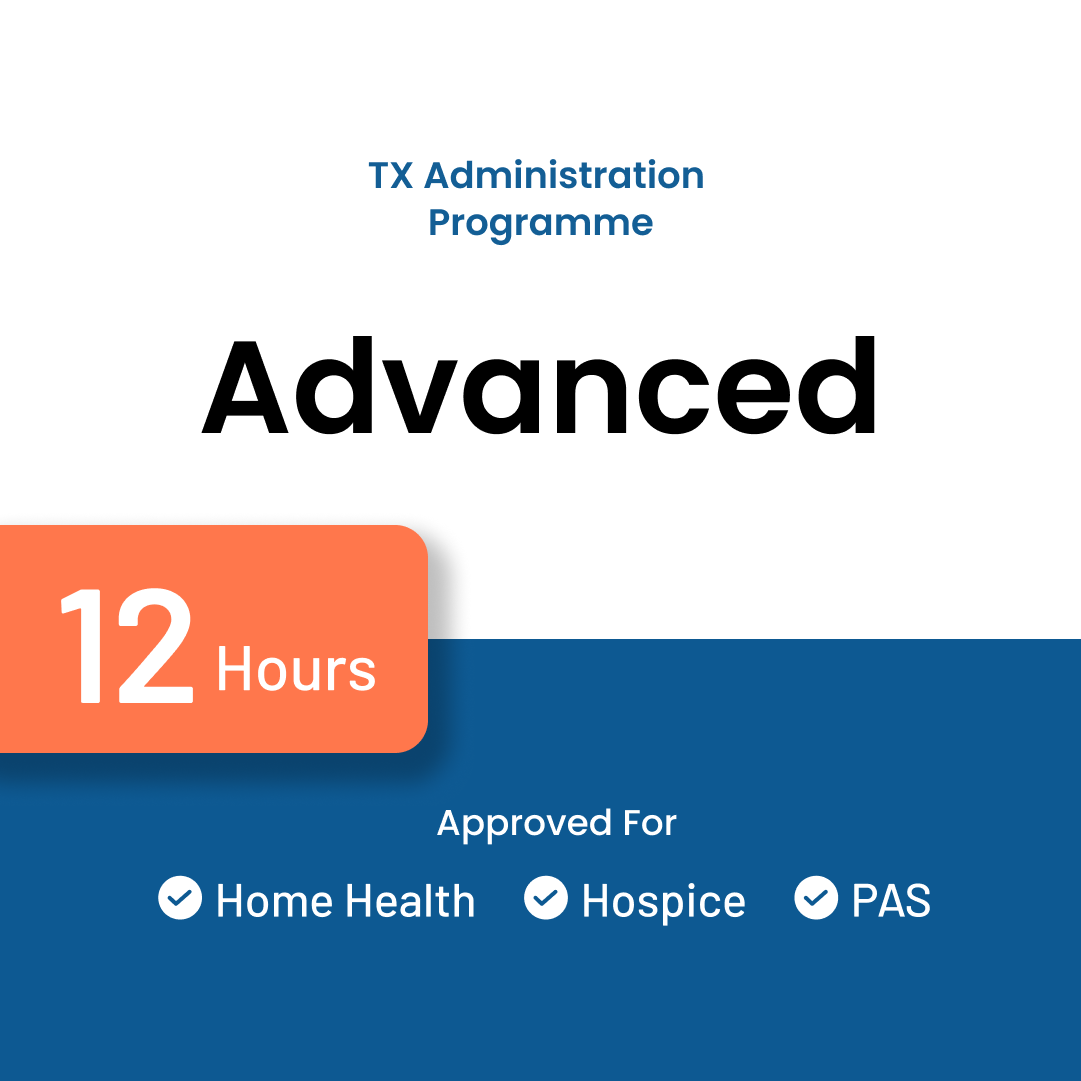
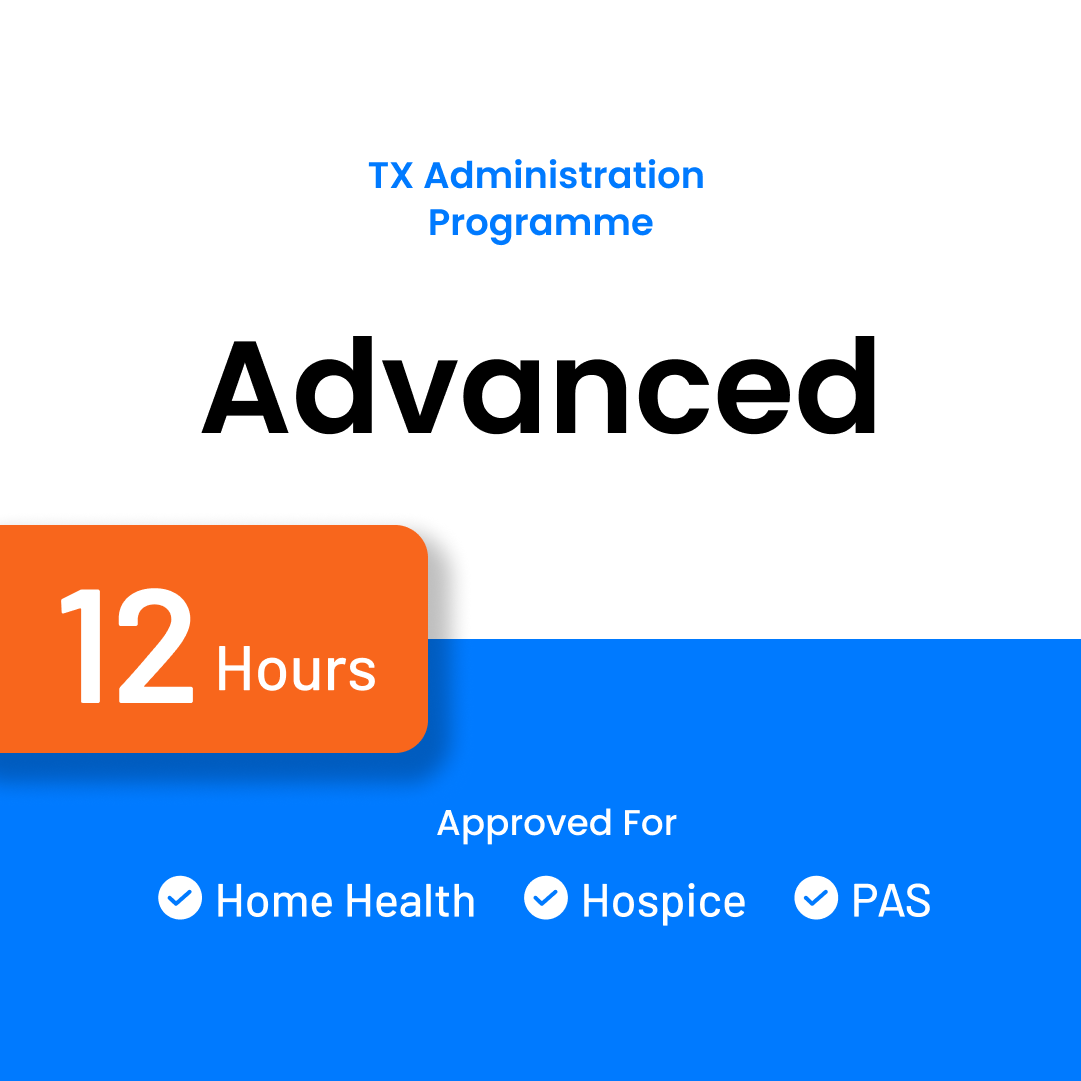
chore : images and hero gif changed

diff --git a/src/components/logo/logo.js b/src/components/logo/logo.js
@@ -28,69 +28,167 @@ function Logo({ single = false, sx }) {
     //     d="M114.742 355.332H256v66.097H24v-61.376l140.323-203.956H24V90h232v61.376L114.742 355.332z"
     //   />
     // </svg>
+    // <svg
+    //   width="100%"
+    //   height="100%"
+    //   viewBox="0 0 30 30"
+    //   fill="none"
+    //   xmlns="http://www.w3.org/2000/svg"
+    // >
+    //   <g clipPath="url(#clip0_3_1976)">
+    //     <path d="M28.6804 6.39832H7.40686L0 0H21.2673L28.6804 6.39832Z" fill="#0D5992" />
+    //     <path d="M0 13.6447H21.2673L28.6804 6.39844H7.40686L0 13.6447Z" fill="#FF774C" />
+    //     <path d="M28.6741 21.4712H7.40686L0 13.6445H21.2673L28.6741 21.4712Z" fill="#0D5992" />
+    //   </g>
+    //   <defs>
+    //     <clipPath id="clip0_3_1976">
+    //       <rect width="141" height="28" fill="white" />
+    //     </clipPath>
+    //   </defs>
+    // </svg>
     <svg
-      width="100%"
-      height="100%"
-      viewBox="0 0 30 30"
+      width="176"
+      height="35"
+      viewBox="0 0 176 35"
       fill="none"
       xmlns="http://www.w3.org/2000/svg"
     >
-      <g clipPath="url(#clip0_3_1976)">
-        <path d="M28.6804 6.39832H7.40686L0 0H21.2673L28.6804 6.39832Z" fill="#0D5992" />
-        <path d="M0 13.6447H21.2673L28.6804 6.39844H7.40686L0 13.6447Z" fill="#FF774C" />
-        <path d="M28.6741 21.4712H7.40686L0 13.6445H21.2673L28.6741 21.4712Z" fill="#0D5992" />
+      {/* <mask
+      id="mask0_516_5972"
+      style="mask-type:luminance"
+      maskUnits="userSpaceOnUse"
+      x="0"
+      y="0"
+      width="176"
+      height="35"
+    >
+      <path d="M176 0H0V35H176V0Z" fill="white" />
+    </mask> */}
+      <g mask="url(#mask0_516_5972)">
+        <path
+          d="M75.1143 35C73.9945 35.0765 72.8739 34.8666 71.8498 34.3886V30.7606C72.6605 31.1749 73.5536 31.3844 74.4567 31.372C74.9341 31.3791 75.4075 31.2811 75.8459 31.0844C76.2844 30.8877 76.678 30.5967 77.001 30.2306C77.9055 29.1912 78.6216 27.9896 79.1146 26.6842L71.2313 7.98981H75.6309L81.0561 21.4094L86.3012 7.98981H90.5912L81.9799 29.1871C80.362 33.0679 78.0735 35.0055 75.1143 35Z"
+          fill="#007AFF"
+        />
+        <path
+          d="M108.597 26.7412H92.2743V24.0264L102.287 11.6505H92.8928V8.02246H107.97V10.8515L97.9578 23.1459H108.558L108.597 26.7412Z"
+          fill="#007AFF"
+        />
+        <path
+          d="M119.345 27.2385C118.035 27.2861 116.729 27.0573 115.506 26.5654C114.283 26.0736 113.169 25.3291 112.229 24.3769C110.446 22.5179 109.444 19.9975 109.444 17.3695C109.444 14.7415 110.446 12.2211 112.229 10.3622C114.17 8.52088 116.7 7.50031 119.326 7.50031C121.951 7.50031 124.482 8.52088 126.422 10.3622C127.324 11.264 128.037 12.3501 128.516 13.5525C128.996 14.7548 129.231 16.0474 129.209 17.3491C129.23 18.6566 128.993 19.9546 128.514 21.1633C128.034 22.3719 127.323 23.4655 126.422 24.3769C125.487 25.323 124.378 26.0639 123.163 26.5554C121.947 27.047 120.649 27.2793 119.345 27.2385ZM119.345 23.6105C120.129 23.6275 120.908 23.4771 121.633 23.1686C122.359 22.8601 123.016 22.4001 123.565 21.8169C124.646 20.6094 125.247 19.0201 125.247 17.3695C125.247 15.7189 124.646 14.1295 123.565 12.9221C122.865 12.193 122.003 11.6551 121.055 11.3564C120.107 11.0577 119.104 11.0073 118.133 11.2097C117.162 11.4122 116.254 11.8612 115.49 12.5169C114.726 13.1725 114.129 14.0146 113.753 14.9683C113.376 15.922 113.232 16.9578 113.332 17.9835C113.432 19.0094 113.774 19.9935 114.327 20.8485C114.881 21.7036 115.628 22.4031 116.504 22.8849C117.379 23.3668 118.355 23.616 119.345 23.6105Z"
+          fill="#007AFF"
+        />
+        <path d="M136.373 0.00823975V26.7413H132.411V0.00823975H136.373Z" fill="#007AFF" />
+        <path
+          d="M150.252 26.7656H146.659L138.588 8.01422H142.956L148.561 21.45L154.104 8.01422H158.315L150.252 26.7656Z"
+          fill="#007AFF"
+        />
+        <path
+          d="M158.214 17.3491C158.173 16.0589 158.379 14.7729 158.819 13.5664C159.26 12.3598 159.927 11.2567 160.782 10.3214C161.642 9.38949 162.681 8.65671 163.832 8.1707C164.982 7.6847 166.219 7.45634 167.46 7.50049C169.143 7.45421 170.795 7.99034 172.157 9.02508C174.703 10.9111 175.974 13.7374 175.969 17.504V18.572H162.215C162.311 19.3124 162.554 20.0238 162.929 20.661C163.303 21.2981 163.801 21.8473 164.39 22.2734C165.751 23.2124 167.362 23.6803 168.994 23.6105C171.036 23.6173 173.04 23.036 174.787 21.931V25.4123C172.811 26.7199 170.494 27.3579 168.156 27.2385C165.556 27.2935 163.036 26.3104 161.11 24.491C160.161 23.5889 159.411 22.4834 158.911 21.2505C158.41 20.0176 158.173 18.6868 158.214 17.3491ZM162.246 15.4414H171.999C171.978 14.8248 171.84 14.2189 171.591 13.6589C171.343 13.0989 170.99 12.5963 170.551 12.1802C170.115 11.7642 169.602 11.4432 169.044 11.236C168.486 11.0288 167.894 10.9396 167.302 10.9736C166.033 10.9268 164.793 11.3843 163.835 12.2536C162.927 13.0605 162.357 14.2039 162.246 15.4414Z"
+          fill="#007AFF"
+        />
+        <path d="M35.7997 7.9979H9.24544L0 0H26.5464L35.7997 7.9979Z" fill="#007AFF" />
+        <path d="M0 17.0559H26.5464L35.7997 7.99805H9.24544L0 17.0559Z" fill="#FF5500" />
+        <path d="M35.7918 26.839H9.24544L0 17.0556H26.5464L35.7918 26.839Z" fill="#007AFF" />
+        <path
+          d="M52.8031 26.7981H48.7636V0.0161743H60.5064C63.1524 0.0161743 65.2244 0.717317 66.7222 2.1196C67.4664 2.80834 68.0562 3.65897 68.4499 4.61135C68.8436 5.56371 69.0315 6.59454 69.0004 7.63089C69.0625 9.35278 68.5343 11.0415 67.5101 12.3948C66.4861 13.7481 65.0329 14.6777 63.4108 15.0174L71.4976 26.7981H66.6126L58.8545 15.4739H52.8031V26.7981ZM52.8031 3.8806V11.797H60.2324C61.4556 11.8718 62.6662 11.5062 63.6613 10.7616C64.0745 10.4045 64.4017 9.95149 64.6165 9.43896C64.8313 8.92644 64.9278 8.36862 64.8982 7.81026C64.9222 7.26446 64.8227 6.72044 64.6079 6.22198C64.393 5.72353 64.0687 5.28456 63.6613 4.94046C62.6652 4.19869 61.4547 3.83601 60.2324 3.91321L52.8031 3.8806Z"
+          fill="#007AFF"
+        />
       </g>
-      <defs>
-        <clipPath id="clip0_3_1976">
-          <rect width="141" height="28" fill="white" />
-        </clipPath>
-      </defs>
     </svg>
   );
 
   const fullLogo = (
+    // <svg
+    //   width="180"
+    //   height="50"
+    //   viewBox="0 0 180 20"
+    //   fill="none"
+    //   xmlns="http://www.w3.org/2000/svg"
+    // >
+    //   <g clipPath="url(#clip0_3_1976)">
+    //     <path
+    //       d="M60.1768 28C59.2797 28.0612 58.3819 27.8933 57.5615 27.5109V24.6085C58.211 24.9399 58.9265 25.1075 59.65 25.0976C60.0324 25.1033 60.4117 25.0249 60.7629 24.8675C61.1142 24.7102 61.4295 24.4774 61.6883 24.1845C62.4129 23.353 62.9866 22.3917 63.3816 21.3474L57.066 6.39185H60.5907L64.937 17.1275L69.139 6.39185H72.5759L65.6771 23.3497C64.3809 26.4543 62.5475 28.0044 60.1768 28Z"
+    //       fill="#0D5992"
+    //     />
+    //     <path
+    //       d="M87.0008 21.393H73.9243V19.2211L81.9458 9.32038H74.4198V6.41797H86.499V8.68119L78.4776 18.5167H86.9694L87.0008 21.393Z"
+    //       fill="#0D5992"
+    //     />
+    //     <path
+    //       d="M95.6118 21.7908C94.5622 21.8289 93.516 21.6458 92.5363 21.2523C91.5565 20.8589 90.6635 20.2633 89.9109 19.5015C88.482 18.0143 87.6793 15.998 87.6793 13.8956C87.6793 11.7932 88.482 9.77691 89.9109 8.28973C91.4656 6.8167 93.493 6.00024 95.5962 6.00024C97.6993 6.00024 99.7268 6.8167 101.281 8.28973C102.004 9.01119 102.575 9.8801 102.959 10.842C103.343 11.8038 103.532 12.8379 103.514 13.8793C103.531 14.9253 103.341 15.9637 102.957 16.9306C102.573 17.8975 102.003 18.7724 101.281 19.5015C100.532 20.2584 99.6439 20.8511 98.67 21.2443C97.6961 21.6376 96.6561 21.8234 95.6118 21.7908ZM95.6118 18.8884C96.2397 18.902 96.8635 18.7817 97.4449 18.5349C98.0263 18.2881 98.5529 17.9201 98.9923 17.4535C99.8581 16.4875 100.34 15.2161 100.34 13.8956C100.34 12.5751 99.8581 11.3036 98.9923 10.3377C98.4315 9.75437 97.7408 9.32409 96.9816 9.0851C96.2224 8.84612 95.4182 8.80581 94.6404 8.96777C93.8626 9.12973 93.1354 9.48894 92.5232 10.0135C91.911 10.538 91.4329 11.2117 91.1313 11.9746C90.8296 12.7376 90.7139 13.5662 90.7942 14.3868C90.8746 15.2075 91.1486 15.9948 91.5919 16.6788C92.0352 17.3629 92.6341 17.9225 93.3354 18.3079C94.0367 18.6934 94.8187 18.8928 95.6118 18.8884Z"
+    //       fill="#0D5992"
+    //     />
+    //     <path d="M109.253 0.0065918V21.393H106.079V0.0065918H109.253Z" fill="#0D5992" />
+    //     <path
+    //       d="M120.372 21.4125H117.494L111.028 6.41138H114.527L119.018 17.16L123.458 6.41138H126.832L120.372 21.4125Z"
+    //       fill="#0D5992"
+    //     />
+    //     <path
+    //       d="M126.751 13.8793C126.718 12.8471 126.883 11.8183 127.236 10.8531C127.589 9.88782 128.123 9.00535 128.808 8.25709C129.497 7.51159 130.33 6.92537 131.252 6.53656C132.173 6.14776 133.164 5.96507 134.158 6.00039C135.507 5.96337 136.83 6.39227 137.921 7.22006C139.961 8.72887 140.979 10.9899 140.975 14.0032V14.8576H129.956C130.033 15.4499 130.228 16.019 130.528 16.5288C130.828 17.0385 131.227 17.4778 131.699 17.8187C132.789 18.5699 134.08 18.9442 135.387 18.8884C137.023 18.8938 138.629 18.4288 140.028 17.5448V20.3298C138.445 21.3759 136.589 21.8863 134.716 21.7908C132.633 21.8348 130.614 21.0483 129.071 19.5928C128.311 18.8711 127.71 17.9867 127.309 17.0004C126.908 16.0141 126.718 14.9494 126.751 13.8793ZM129.981 12.3531H137.795C137.778 11.8598 137.667 11.3751 137.468 10.9271C137.269 10.4791 136.986 10.077 136.635 9.74414C136.285 9.41132 135.874 9.15453 135.427 8.98879C134.98 8.82304 134.506 8.75168 134.032 8.77887C133.015 8.74141 132.022 9.10744 131.254 9.80286C130.527 10.4484 130.07 11.3631 129.981 12.3531Z"
+    //       fill="#0D5992"
+    //     />
+    //     <path d="M28.6804 6.39832H7.40686L0 0H21.2673L28.6804 6.39832Z" fill="#0D5992" />
+    //     <path d="M0 13.6447H21.2673L28.6804 6.39844H7.40686L0 13.6447Z" fill="#FF774C" />
+    //     <path d="M28.6741 21.4712H7.40686L0 13.6445H21.2673L28.6741 21.4712Z" fill="#0D5992" />
+    //     <path
+    //       d="M42.3025 21.4385H39.0663V0.0129395H48.4739C50.5937 0.0129395 52.2536 0.573854 53.4536 1.69568C54.0498 2.24667 54.5223 2.92718 54.8377 3.68908C55.1531 4.45097 55.3036 5.27563 55.2787 6.10471C55.3285 7.48222 54.9053 8.8332 54.0848 9.91587C53.2644 10.9985 52.1002 11.7422 50.8007 12.0139L57.2793 21.4385H53.3658L47.1505 12.3791H42.3025V21.4385ZM42.3025 3.10448V9.43758H48.2544C49.2343 9.49746 50.2042 9.20499 51.0014 8.60925C51.3324 8.32357 51.5945 7.96119 51.7666 7.55117C51.9387 7.14115 52.016 6.6949 51.9923 6.24821C52.0115 5.81157 51.9318 5.37635 51.7597 4.97758C51.5876 4.57882 51.3278 4.22765 51.0014 3.95237C50.2034 3.35895 49.2336 3.06881 48.2544 3.13057L42.3025 3.10448Z"
+    //       fill="#0D5992"
+    //     />
+    //   </g>
+    //   <defs>
+    //     <clipPath id="clip0_3_1976">
+    //       <rect width="141" height="28" fill="white" />
+    //     </clipPath>
+    //   </defs>
+    // </svg>
     <svg
-      width="180"
-      height="50"
-      viewBox="0 0 180 20"
+      width="176"
+      height="35"
+      viewBox="0 0 176 35"
       fill="none"
       xmlns="http://www.w3.org/2000/svg"
     >
-      <g clipPath="url(#clip0_3_1976)">
+      {/* <mask
+      id="mask0_516_5972"
+      style="mask-type:luminance"
+      maskUnits="userSpaceOnUse"
+      x="0"
+      y="0"
+      width="176"
+      height="35"
+    >
+      <path d="M176 0H0V35H176V0Z" fill="white" />
+    </mask> */}
+      <g mask="url(#mask0_516_5972)">
         <path
-          d="M60.1768 28C59.2797 28.0612 58.3819 27.8933 57.5615 27.5109V24.6085C58.211 24.9399 58.9265 25.1075 59.65 25.0976C60.0324 25.1033 60.4117 25.0249 60.7629 24.8675C61.1142 24.7102 61.4295 24.4774 61.6883 24.1845C62.4129 23.353 62.9866 22.3917 63.3816 21.3474L57.066 6.39185H60.5907L64.937 17.1275L69.139 6.39185H72.5759L65.6771 23.3497C64.3809 26.4543 62.5475 28.0044 60.1768 28Z"
-          fill="#0D5992"
+          d="M75.1143 35C73.9945 35.0765 72.8739 34.8666 71.8498 34.3886V30.7606C72.6605 31.1749 73.5536 31.3844 74.4567 31.372C74.9341 31.3791 75.4075 31.2811 75.8459 31.0844C76.2844 30.8877 76.678 30.5967 77.001 30.2306C77.9055 29.1912 78.6216 27.9896 79.1146 26.6842L71.2313 7.98981H75.6309L81.0561 21.4094L86.3012 7.98981H90.5912L81.9799 29.1871C80.362 33.0679 78.0735 35.0055 75.1143 35Z"
+          fill="#007AFF"
         />
         <path
-          d="M87.0008 21.393H73.9243V19.2211L81.9458 9.32038H74.4198V6.41797H86.499V8.68119L78.4776 18.5167H86.9694L87.0008 21.393Z"
-          fill="#0D5992"
+          d="M108.597 26.7412H92.2743V24.0264L102.287 11.6505H92.8928V8.02246H107.97V10.8515L97.9578 23.1459H108.558L108.597 26.7412Z"
+          fill="#007AFF"
         />
         <path
-          d="M95.6118 21.7908C94.5622 21.8289 93.516 21.6458 92.5363 21.2523C91.5565 20.8589 90.6635 20.2633 89.9109 19.5015C88.482 18.0143 87.6793 15.998 87.6793 13.8956C87.6793 11.7932 88.482 9.77691 89.9109 8.28973C91.4656 6.8167 93.493 6.00024 95.5962 6.00024C97.6993 6.00024 99.7268 6.8167 101.281 8.28973C102.004 9.01119 102.575 9.8801 102.959 10.842C103.343 11.8038 103.532 12.8379 103.514 13.8793C103.531 14.9253 103.341 15.9637 102.957 16.9306C102.573 17.8975 102.003 18.7724 101.281 19.5015C100.532 20.2584 99.6439 20.8511 98.67 21.2443C97.6961 21.6376 96.6561 21.8234 95.6118 21.7908ZM95.6118 18.8884C96.2397 18.902 96.8635 18.7817 97.4449 18.5349C98.0263 18.2881 98.5529 17.9201 98.9923 17.4535C99.8581 16.4875 100.34 15.2161 100.34 13.8956C100.34 12.5751 99.8581 11.3036 98.9923 10.3377C98.4315 9.75437 97.7408 9.32409 96.9816 9.0851C96.2224 8.84612 95.4182 8.80581 94.6404 8.96777C93.8626 9.12973 93.1354 9.48894 92.5232 10.0135C91.911 10.538 91.4329 11.2117 91.1313 11.9746C90.8296 12.7376 90.7139 13.5662 90.7942 14.3868C90.8746 15.2075 91.1486 15.9948 91.5919 16.6788C92.0352 17.3629 92.6341 17.9225 93.3354 18.3079C94.0367 18.6934 94.8187 18.8928 95.6118 18.8884Z"
-          fill="#0D5992"
+          d="M119.345 27.2385C118.035 27.2861 116.729 27.0573 115.506 26.5654C114.283 26.0736 113.169 25.3291 112.229 24.3769C110.446 22.5179 109.444 19.9975 109.444 17.3695C109.444 14.7415 110.446 12.2211 112.229 10.3622C114.17 8.52088 116.7 7.50031 119.326 7.50031C121.951 7.50031 124.482 8.52088 126.422 10.3622C127.324 11.264 128.037 12.3501 128.516 13.5525C128.996 14.7548 129.231 16.0474 129.209 17.3491C129.23 18.6566 128.993 19.9546 128.514 21.1633C128.034 22.3719 127.323 23.4655 126.422 24.3769C125.487 25.323 124.378 26.0639 123.163 26.5554C121.947 27.047 120.649 27.2793 119.345 27.2385ZM119.345 23.6105C120.129 23.6275 120.908 23.4771 121.633 23.1686C122.359 22.8601 123.016 22.4001 123.565 21.8169C124.646 20.6094 125.247 19.0201 125.247 17.3695C125.247 15.7189 124.646 14.1295 123.565 12.9221C122.865 12.193 122.003 11.6551 121.055 11.3564C120.107 11.0577 119.104 11.0073 118.133 11.2097C117.162 11.4122 116.254 11.8612 115.49 12.5169C114.726 13.1725 114.129 14.0146 113.753 14.9683C113.376 15.922 113.232 16.9578 113.332 17.9835C113.432 19.0094 113.774 19.9935 114.327 20.8485C114.881 21.7036 115.628 22.4031 116.504 22.8849C117.379 23.3668 118.355 23.616 119.345 23.6105Z"
+          fill="#007AFF"
         />
-        <path d="M109.253 0.0065918V21.393H106.079V0.0065918H109.253Z" fill="#0D5992" />
+        <path d="M136.373 0.00823975V26.7413H132.411V0.00823975H136.373Z" fill="#007AFF" />
         <path
-          d="M120.372 21.4125H117.494L111.028 6.41138H114.527L119.018 17.16L123.458 6.41138H126.832L120.372 21.4125Z"
-          fill="#0D5992"
+          d="M150.252 26.7656H146.659L138.588 8.01422H142.956L148.561 21.45L154.104 8.01422H158.315L150.252 26.7656Z"
+          fill="#007AFF"
         />
         <path
-          d="M126.751 13.8793C126.718 12.8471 126.883 11.8183 127.236 10.8531C127.589 9.88782 128.123 9.00535 128.808 8.25709C129.497 7.51159 130.33 6.92537 131.252 6.53656C132.173 6.14776 133.164 5.96507 134.158 6.00039C135.507 5.96337 136.83 6.39227 137.921 7.22006C139.961 8.72887 140.979 10.9899 140.975 14.0032V14.8576H129.956C130.033 15.4499 130.228 16.019 130.528 16.5288C130.828 17.0385 131.227 17.4778 131.699 17.8187C132.789 18.5699 134.08 18.9442 135.387 18.8884C137.023 18.8938 138.629 18.4288 140.028 17.5448V20.3298C138.445 21.3759 136.589 21.8863 134.716 21.7908C132.633 21.8348 130.614 21.0483 129.071 19.5928C128.311 18.8711 127.71 17.9867 127.309 17.0004C126.908 16.0141 126.718 14.9494 126.751 13.8793ZM129.981 12.3531H137.795C137.778 11.8598 137.667 11.3751 137.468 10.9271C137.269 10.4791 136.986 10.077 136.635 9.74414C136.285 9.41132 135.874 9.15453 135.427 8.98879C134.98 8.82304 134.506 8.75168 134.032 8.77887C133.015 8.74141 132.022 9.10744 131.254 9.80286C130.527 10.4484 130.07 11.3631 129.981 12.3531Z"
-          fill="#0D5992"
+          d="M158.214 17.3491C158.173 16.0589 158.379 14.7729 158.819 13.5664C159.26 12.3598 159.927 11.2567 160.782 10.3214C161.642 9.38949 162.681 8.65671 163.832 8.1707C164.982 7.6847 166.219 7.45634 167.46 7.50049C169.143 7.45421 170.795 7.99034 172.157 9.02508C174.703 10.9111 175.974 13.7374 175.969 17.504V18.572H162.215C162.311 19.3124 162.554 20.0238 162.929 20.661C163.303 21.2981 163.801 21.8473 164.39 22.2734C165.751 23.2124 167.362 23.6803 168.994 23.6105C171.036 23.6173 173.04 23.036 174.787 21.931V25.4123C172.811 26.7199 170.494 27.3579 168.156 27.2385C165.556 27.2935 163.036 26.3104 161.11 24.491C160.161 23.5889 159.411 22.4834 158.911 21.2505C158.41 20.0176 158.173 18.6868 158.214 17.3491ZM162.246 15.4414H171.999C171.978 14.8248 171.84 14.2189 171.591 13.6589C171.343 13.0989 170.99 12.5963 170.551 12.1802C170.115 11.7642 169.602 11.4432 169.044 11.236C168.486 11.0288 167.894 10.9396 167.302 10.9736C166.033 10.9268 164.793 11.3843 163.835 12.2536C162.927 13.0605 162.357 14.2039 162.246 15.4414Z"
+          fill="#007AFF"
         />
-        <path d="M28.6804 6.39832H7.40686L0 0H21.2673L28.6804 6.39832Z" fill="#0D5992" />
-        <path d="M0 13.6447H21.2673L28.6804 6.39844H7.40686L0 13.6447Z" fill="#FF774C" />
-        <path d="M28.6741 21.4712H7.40686L0 13.6445H21.2673L28.6741 21.4712Z" fill="#0D5992" />
+        <path d="M35.7997 7.9979H9.24544L0 0H26.5464L35.7997 7.9979Z" fill="#007AFF" />
+        <path d="M0 17.0559H26.5464L35.7997 7.99805H9.24544L0 17.0559Z" fill="#FF5500" />
+        <path d="M35.7918 26.839H9.24544L0 17.0556H26.5464L35.7918 26.839Z" fill="#007AFF" />
         <path
-          d="M42.3025 21.4385H39.0663V0.0129395H48.4739C50.5937 0.0129395 52.2536 0.573854 53.4536 1.69568C54.0498 2.24667 54.5223 2.92718 54.8377 3.68908C55.1531 4.45097 55.3036 5.27563 55.2787 6.10471C55.3285 7.48222 54.9053 8.8332 54.0848 9.91587C53.2644 10.9985 52.1002 11.7422 50.8007 12.0139L57.2793 21.4385H53.3658L47.1505 12.3791H42.3025V21.4385ZM42.3025 3.10448V9.43758H48.2544C49.2343 9.49746 50.2042 9.20499 51.0014 8.60925C51.3324 8.32357 51.5945 7.96119 51.7666 7.55117C51.9387 7.14115 52.016 6.6949 51.9923 6.24821C52.0115 5.81157 51.9318 5.37635 51.7597 4.97758C51.5876 4.57882 51.3278 4.22765 51.0014 3.95237C50.2034 3.35895 49.2336 3.06881 48.2544 3.13057L42.3025 3.10448Z"
-          fill="#0D5992"
+          d="M52.8031 26.7981H48.7636V0.0161743H60.5064C63.1524 0.0161743 65.2244 0.717317 66.7222 2.1196C67.4664 2.80834 68.0562 3.65897 68.4499 4.61135C68.8436 5.56371 69.0315 6.59454 69.0004 7.63089C69.0625 9.35278 68.5343 11.0415 67.5101 12.3948C66.4861 13.7481 65.0329 14.6777 63.4108 15.0174L71.4976 26.7981H66.6126L58.8545 15.4739H52.8031V26.7981ZM52.8031 3.8806V11.797H60.2324C61.4556 11.8718 62.6662 11.5062 63.6613 10.7616C64.0745 10.4045 64.4017 9.95149 64.6165 9.43896C64.8313 8.92644 64.9278 8.36862 64.8982 7.81026C64.9222 7.26446 64.8227 6.72044 64.6079 6.22198C64.393 5.72353 64.0687 5.28456 63.6613 4.94046C62.6652 4.19869 61.4547 3.83601 60.2324 3.91321L52.8031 3.8806Z"
+          fill="#007AFF"
         />
       </g>
-      <defs>
-        <clipPath id="clip0_3_1976">
-          <rect width="141" height="28" fill="white" />
-        </clipPath>
-      </defs>
     </svg>
   );
 

diff --git a/src/sections/auth/login-background-view.js b/src/sections/auth/login-background-view.js
@@ -108,7 +108,7 @@ export default function LoginBackgroundView() {
           component={RouterLink}
           href={paths.registerBackground}
           variant="subtitle2"
-          color="primary"
+          color="secondary"
         >
           Get started
         </Link>
@@ -164,7 +164,7 @@ export default function LoginBackgroundView() {
 
         <LoadingButton
           fullWidth
-          color="primary"
+          color="secondary"
           size="large"
           type="submit"
           variant="contained"

diff --git a/src/sections/auth/register-background-view.js b/src/sections/auth/register-background-view.js
@@ -161,7 +161,7 @@ export default function RegisterBackgroundView() {
           component={RouterLink}
           href={paths.loginBackground}
           variant="subtitle2"
-          color="primary"
+          color="secondary"
         >
           Login
         </Link>
@@ -229,7 +229,7 @@ export default function RegisterBackgroundView() {
 
         <LoadingButton
           fullWidth
-          color="primary"
+          color="secondary"
           size="large"
           type="submit"
           variant="contained"

diff --git a/src/sections/_elearning/landing/elearning-landing-hero.js b/src/sections/_elearning/landing/elearning-landing-hero.js
@@ -96,7 +96,7 @@ export default function ElearningLandingHero() {
 
                 <Stack spacing={3} alignItems="center" direction={{ xs: 'column', md: 'row' }}>
                   <Link component={RouterLink} href={paths.eLearning.courses}>
-                    <Button color="primary" size="large" variant="contained">
+                    <Button color="secondary" size="large" variant="contained">
                       Start Learning
                     </Button>
                   </Link>

diff --git a/src/layouts/main/footer.js b/src/layouts/main/footer.js
@@ -135,7 +135,7 @@ export default function Footer() {
                 <Typography variant="h6">Social</Typography>
                 <Stack direction="row" alignItems="center">
                   {_socials.map((social) => (
-                    <IconButton key={social.value} color="primary">
+                    <IconButton key={social.value} color="secondary">
                       <Iconify icon={social.icon} />
                     </IconButton>
                   ))}

diff --git a/src/sections/_ecommerce/view/ecommerce-account-vouchers-view.js b/src/sections/_ecommerce/view/ecommerce-account-vouchers-view.js
@@ -193,7 +193,7 @@ export default function EcommerceAccountVouchersView() {
               <Link component={RouterLink} href={paths.eLearning.courses} sx={{ pt: 10 }}>
                 <Button
                   // sx={{ bgcolor: '#FF774B' }}
-                  color="primary"
+                  color="secondary"
                   size="large"
                   variant="contained"
                   startIcon={<Iconify icon="carbon:chevron-left" />}

diff --git a/src/sections/_elearning/elearning-newsletter.js b/src/sections/_elearning/elearning-newsletter.js
@@ -40,7 +40,7 @@ export default function ElearningNewsletter() {
               placeholder="Enter your email"
               endAdornment={
                 <InputAdornment position="end">
-                  <Button color="primary" size="large" variant="contained">
+                  <Button color="secondary" size="large" variant="contained">
                     Register
                   </Button>
                 </InputAdornment>

diff --git a/src/app/account/my-learning/mylearning.js b/src/app/account/my-learning/mylearning.js
@@ -183,7 +183,7 @@ export default function AccountPersonalView() {
             <Link component={RouterLink} href={paths.eLearning.courses} sx={{ pt: 12, pl: 4 }}>
               <Button
                 // sx={{ bgcolor: '#FF774B' }}
-                color="primary"
+                color="secondary"
                 size="large"
                 variant="contained"
                 startIcon={<Iconify icon="carbon:chevron-left" />}

diff --git a/src/sections/_elearning/about/elearning-about-hero.js b/src/sections/_elearning/about/elearning-about-hero.js
@@ -79,7 +79,7 @@ export default function ElearningAboutHero() {
               Browse Courses
             </Button> */}
             <Link component={RouterLink} href={paths.eLearning.courses}>
-              <Button color="primary" size="large" variant="contained">
+              <Button color="secondary" size="large" variant="contained">
                 Start Learning
               </Button>
             </Link>

diff --git a/src/layouts/main/header.js b/src/layouts/main/header.js
@@ -273,7 +273,7 @@ export default function Header({ headerOnDark }) {
                   </>
                 ) : (
                   <Link component={RouterLink} href={paths.loginBackground}>
-                    <Button variant="contained" color="primary">
+                    <Button variant="contained" color="secondary">
                       Login
                     </Button>
                   </Link>

diff --git a/src/sections/wishlist/wishlist-view.js b/src/sections/wishlist/wishlist-view.js
@@ -76,7 +76,7 @@ export default function EcommerceWishlistView() {
           <Link component={RouterLink} href={paths.eLearning.courses} sx={{ pt: 10 }}>
             <Button
               // sx={{ bgcolor: '#FF774B' }}
-              color="primary"
+              color="secondary"
               size="large"
               variant="contained"
               startIcon={<Iconify icon="carbon:chevron-left" />}

diff --git a/src/sections/_elearning/details/elearning-course-details-info.js b/src/sections/_elearning/details/elearning-course-details-info.js
@@ -137,7 +137,7 @@ export default function ElearningCourseDetailsInfo({ course }) {
             <Button
               variant={isCourseInCart ? 'contained' : 'outlined'}
               size="large"
-              color="inherit"
+              color="secondary"
               sx={{ width: '80%' }}
               onClick={() => (isCourseInCart ? addToCart(course) : removeFromCart(course))}
             >
